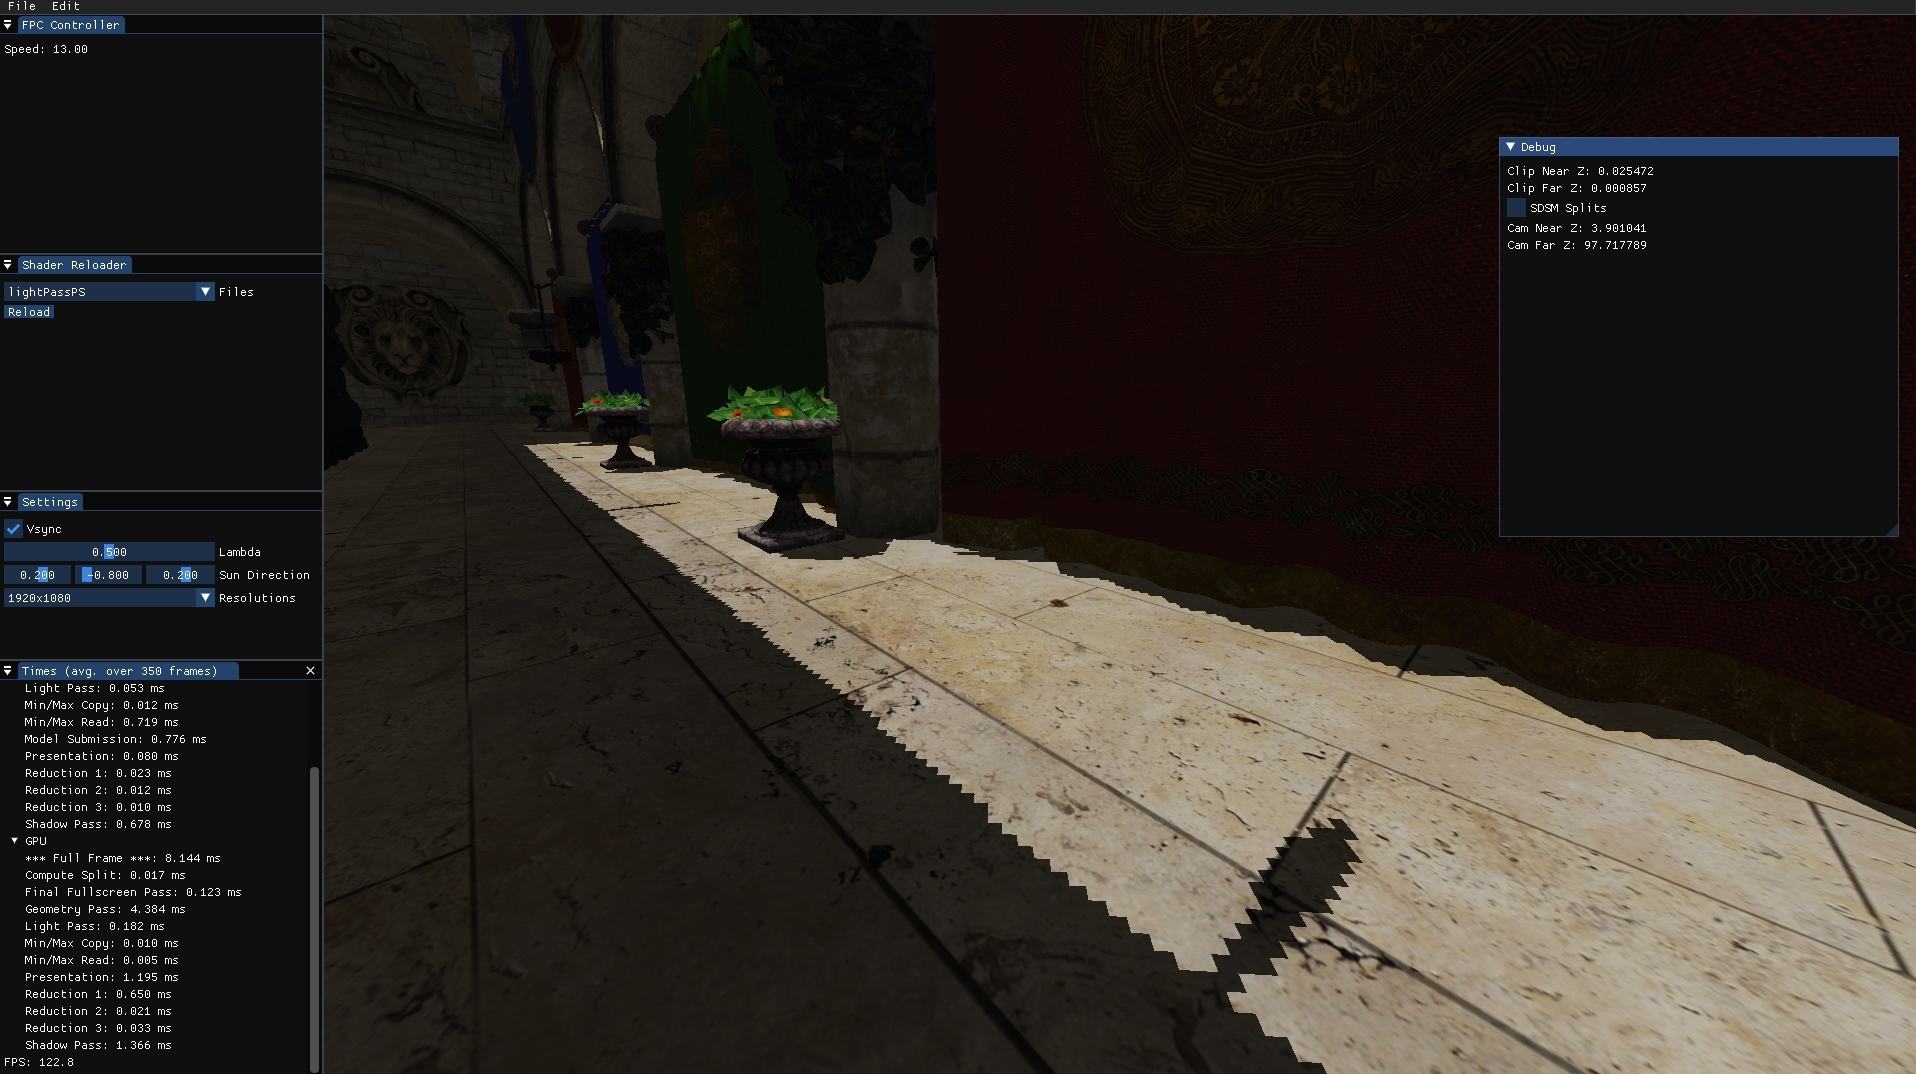
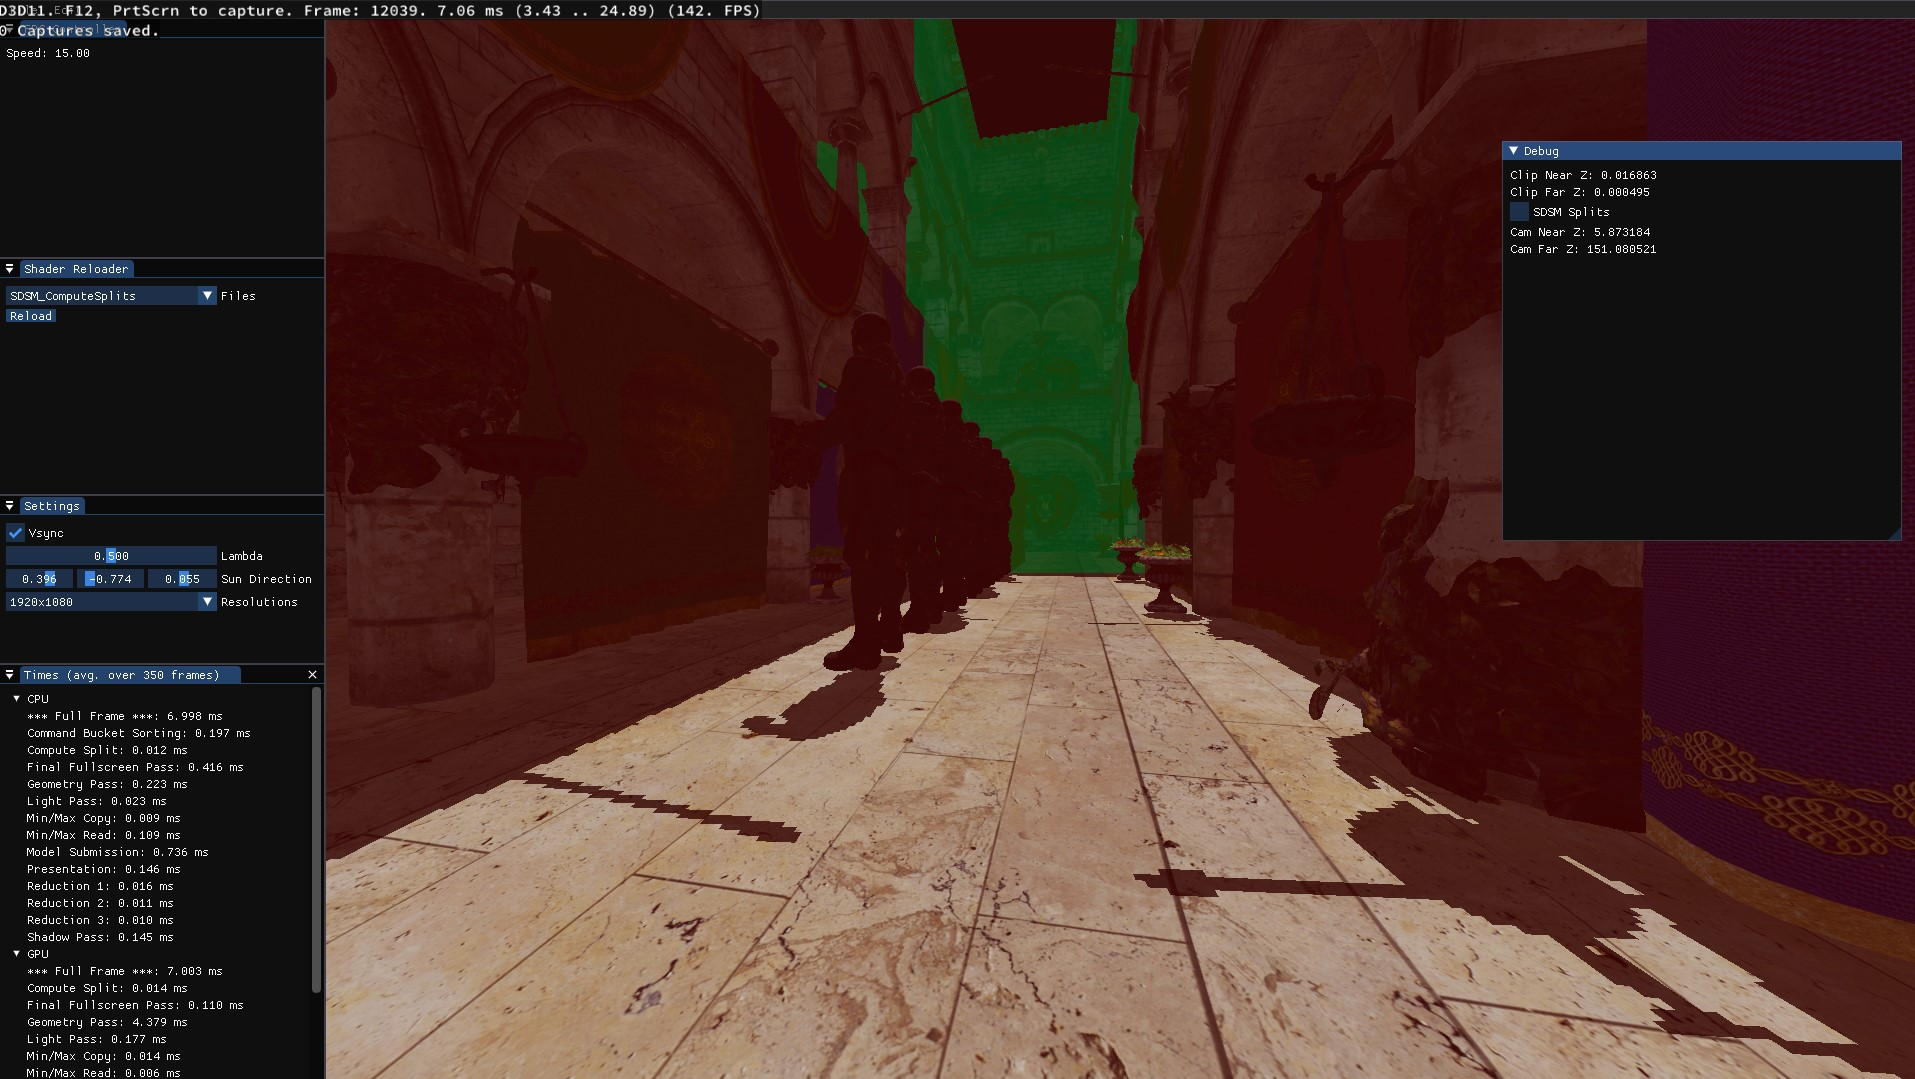
depth reduction to sample space added, gallery updated

diff --git a/dx11-tech/src/Graphics/Renderer/Renderer.cpp b/dx11-tech/src/Graphics/Renderer/Renderer.cpp
@@ -417,10 +417,10 @@ void Renderer::render()
 	{
 		auto light_direction = m_sun_direction;
 		light_direction.Normalize();
-
-
+	
+		// hardcoded near and far for now for PSSM
 		float cam_near_z = 0.1f;
-		float cam_far_z = 1000.f;
+		float cam_far_z = 600.f;
 		float clip_range = cam_far_z - cam_near_z;
 
 		// SDSM min/max replacement (from x frames behind)
@@ -460,6 +460,9 @@ void Renderer::render()
 		for (int i = 0; i < cascade_splits.size(); ++i)
 		{
 			cascade_splits[i] = get_cascade_split(m_lambda, i + 1, (UINT)cascade_splits.size(), cam_near_z, cam_far_z) / clip_range;
+			if (SDSM_on)	
+				cascade_splits[i] = get_cascade_split(1.f, i + 1, (UINT)cascade_splits.size(), cam_near_z, cam_far_z) / clip_range;		// lambda 1 ==> LogPSM
+
 		}
 
 		//if (SDSM_on)

diff --git a/README.md b/README.md
@@ -33,6 +33,12 @@ Features:
 		* Depth min/max CPU read-back for frustum subdivision
 		* Normal CSM workflow afterwards
 
+	* To-add:
+		* Percentage Closer Filtering
+		* Normal maps
+		* SSAO
+		* PBR
+
 * __Miscellaneous__:
 	* CPU Profiler (Frame-based and Scoped)
 	* GPU Profiler (Frame-based and Scoped)
